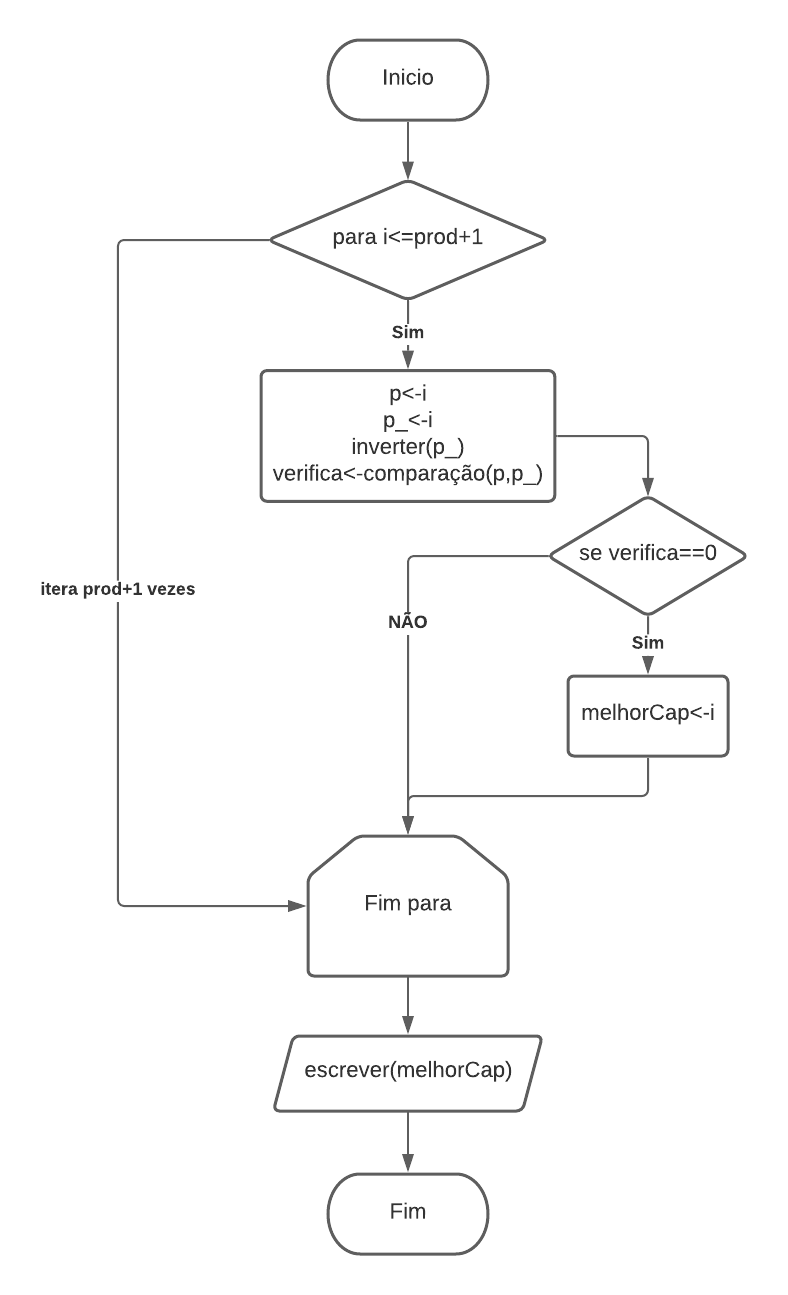
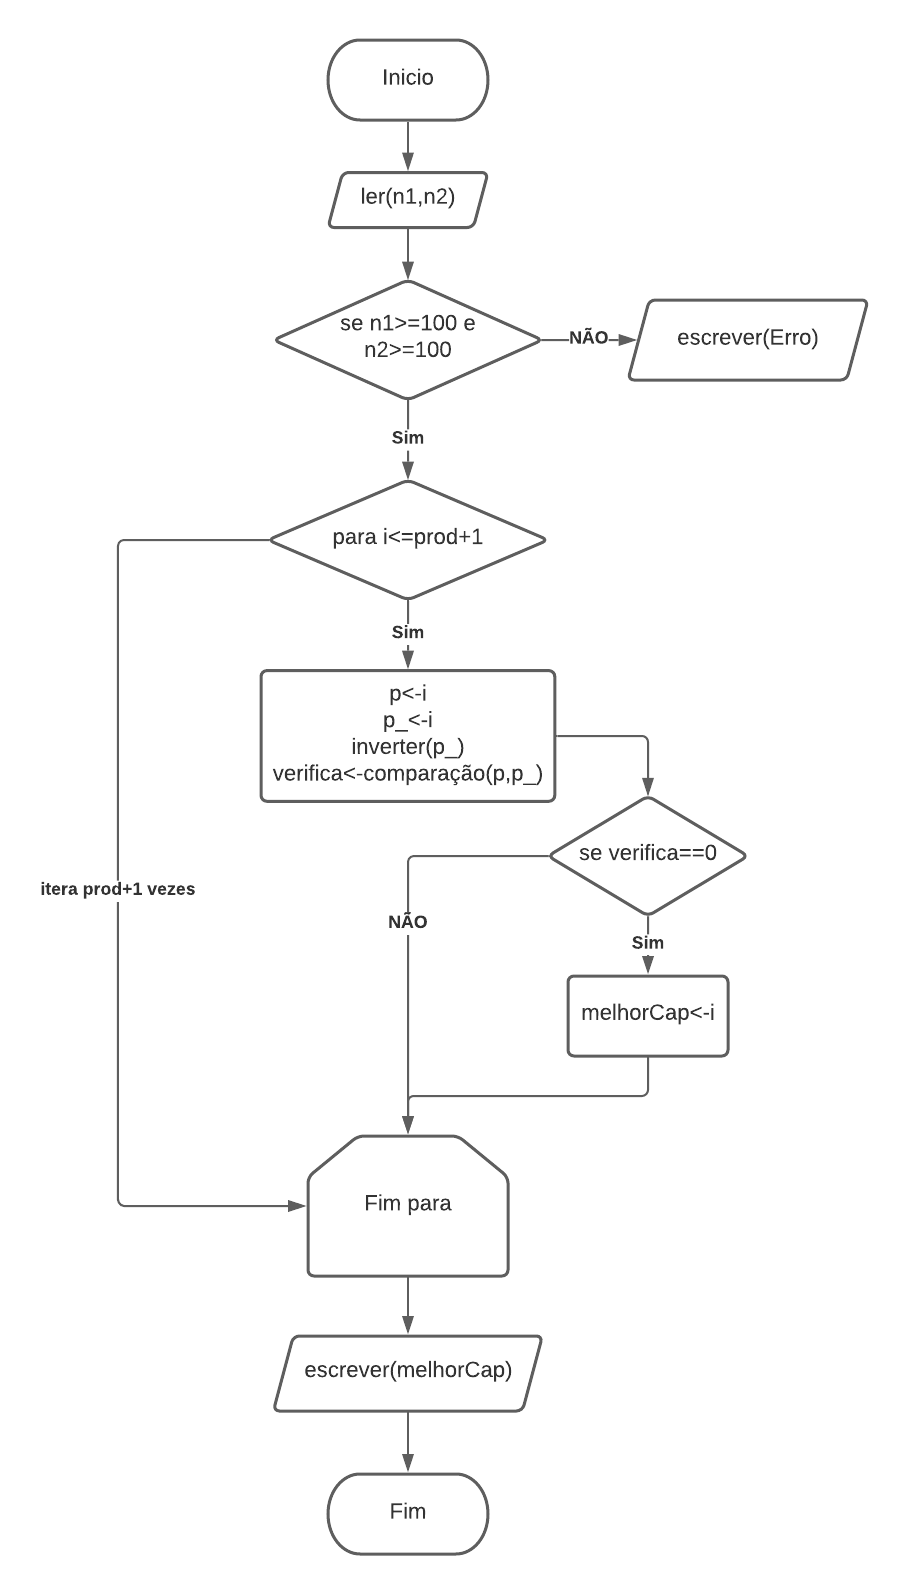
Arranjo ex 9 e resolução dos ex da ficah 3

diff --git a/Algoritmia/Trabalho/trabalho2/exercicio9/main.c b/Algoritmia/Trabalho/trabalho2/exercicio9/main.c
@@ -13,24 +13,26 @@ int main(){
    int verifica,n1,n2,prod,melhorCap=0,i=0;
 
    printf("introduza os nums(n1/n2):");scanf("%d %d",&n1,&n2);
-   prod=n1*n2;
-   //verficar todos os numeros até ao resultado do produto
-   for(i=1;i<=prod;i++){
-      //guardar o valor dos numeros em dois vetores
-      sprintf(p,"%d",i);
-      sprintf(p_,"%d",i);
-      //inverter um vetor
-      strrev(p_);
-      //comparar se os dois vetores são iguais
-      verifica=strcmp(p,p_);
-     //caso sejam iguais a maior capicua e este valor
-      if(verifica==0)
-         melhorCap=i; 
+   if((n1>=100)&&(n2>=100)){
+      prod=n1*n2;
+      //verficar todos os numeros até ao resultado do produto
+      for(i=1;i<=prod;i++){
+         //guardar o valor dos numeros em dois vetores
+         sprintf(p,"%d",i);
+         sprintf(p_,"%d",i);
+         //inverter um vetor
+         strrev(p_);
+         //comparar se os dois vetores são iguais
+         verifica=strcmp(p,p_);
+      //caso sejam iguais a maior capicua e este valor
+         if(verifica==0)
+            melhorCap=i; 
+      }
 
+      printf("Maior capicua:%d",melhorCap);
+   }else{
+      printf("Erro");
    }
-
-   printf("Maior capicua:%d",melhorCap);
-   
 
    return 0;
 }
